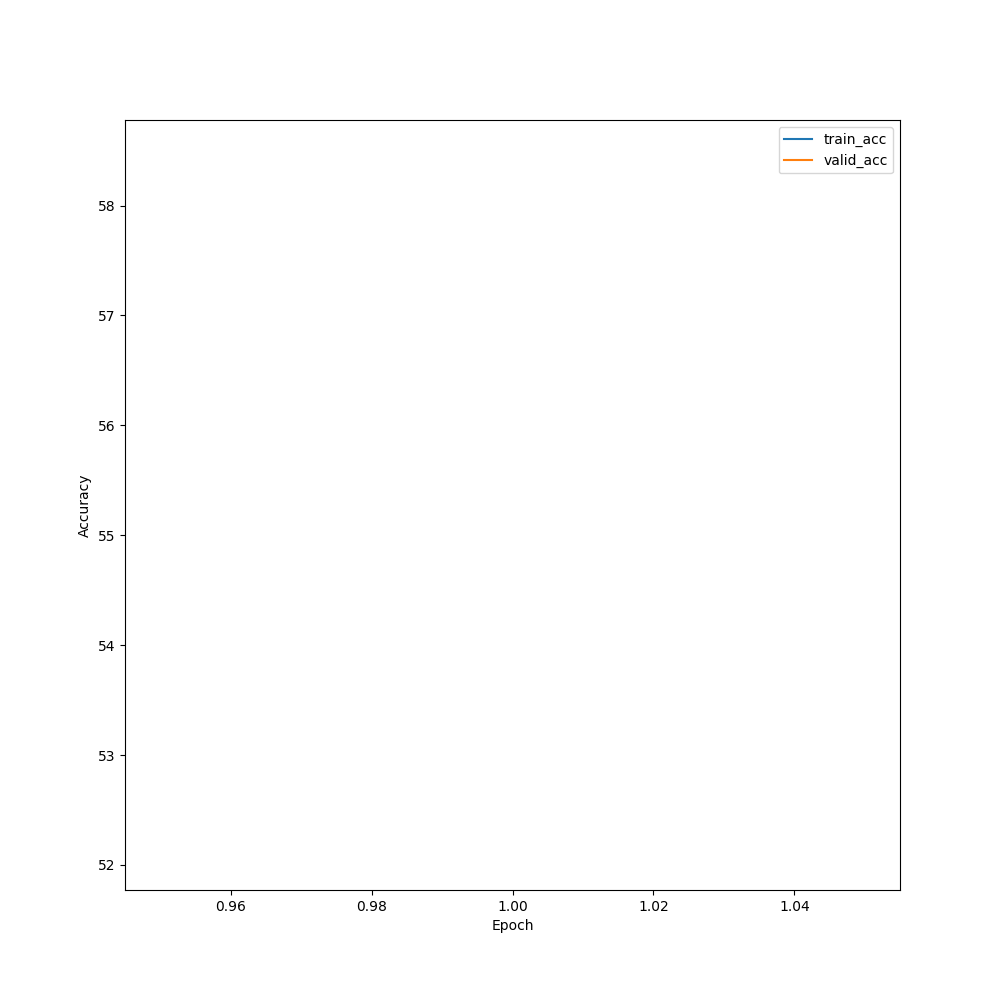
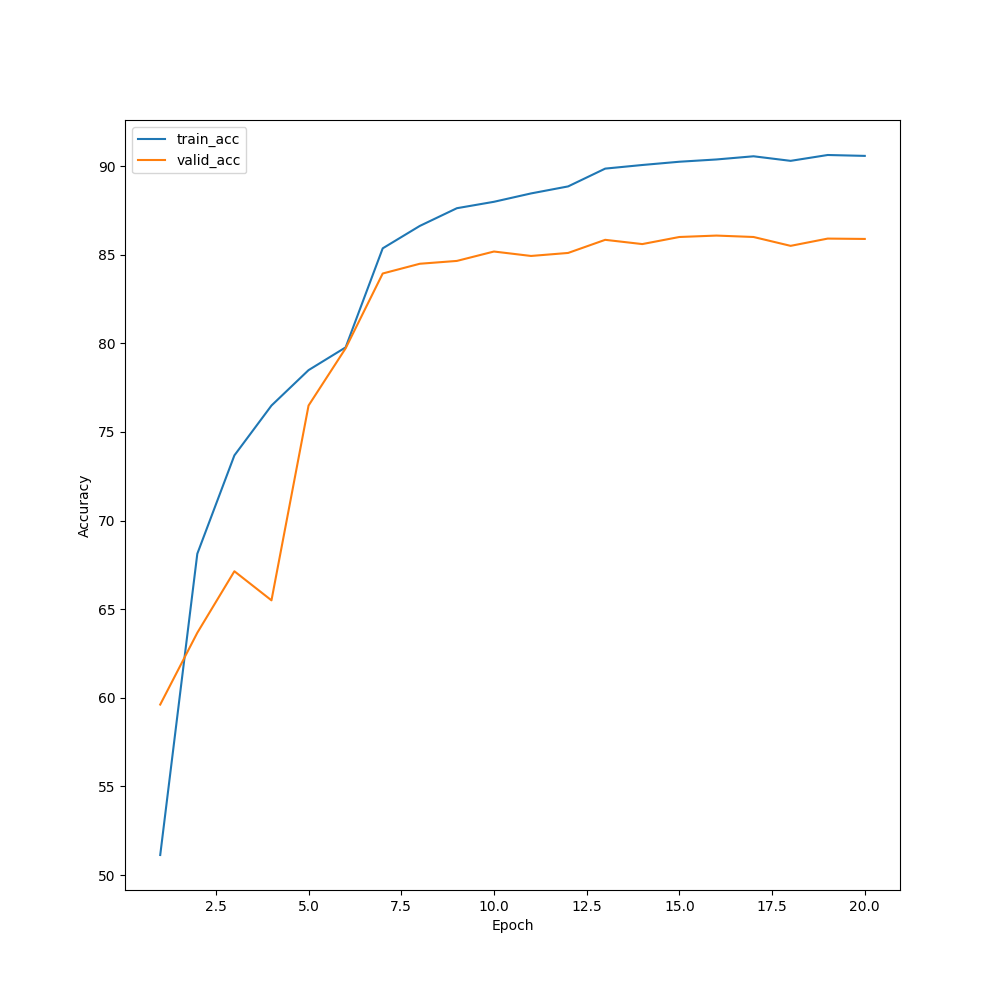
resnet network 93.02 test accuracy

diff --git a/agents/cifar10_agent.py b/agents/cifar10_agent.py
@@ -11,8 +11,8 @@ import torch.nn.functional as F
 from tqdm import tqdm
 
 from agents.base import BaseAgent
-from networks.cifar10_atrous_net import Cifar10AtrousNet as Net
-# from networks.resnet_net import ResNet18 as Net
+# from networks.cifar10_atrous_net import Cifar10AtrousNet as Net
+from networks.resnet_net import ResNet18 as Net
 from infdata.loader.cifar10_dl import DataLoader as dl
 from utils.misc import *
 
@@ -89,7 +89,7 @@ class Cifar10Agent(BaseAgent):
             self.device = torch.device('cuda')
             torch.cuda.set_device(self.config['gpu_device'])
             self.model = self.model.to(self.device)
-            self.loss = self.model.to(self.device)
+            self.loss = self.loss.to(self.device)
             
             self.logger.info("Program will RUN on ****GPU-CUDA****\n")
             print_cuda_statistics()
@@ -348,9 +348,10 @@ class Cifar10Agent(BaseAgent):
         for i in range(1, n+1):
             plt.subplot(5,5,i)
             plt.axis('off')
-            plt.imshow(images[i-1]["img"].cpu().numpy()[0], cmap='gray_r')
-            plt.title("Predicted : {} \nActual : {}".format(self.id2classes[images[i-1]["pred"][0].cpu().numpy()], 
-                                                self.id2classes[images[i-1]["target"].cpu().numpy()]))
+            plt.imshow(images[i-1]["img"].cpu().numpy()[0])
+            plt.title("Predicted : {} \nActual : {}".format(self.id2classes[int(images[i-1]["pred"].cpu().numpy()[0])], 
+                                                self.id2classes[int(images[i-1]["target"].cpu().numpy())]
+                                            ))
 
         plt.tight_layout()
         fig.savefig(os.path.join(self.config["stats_dir"], 'misclassified_imgs.png'))

diff --git a/agents/mnist_agent.py b/agents/mnist_agent.py
@@ -74,9 +74,6 @@ class MNISTAgent(BaseAgent):
         # save checkpoint
         self.save_checkpoint = self.config['save_checkpoint']
 
-        # set cuda flag
-        self.use_cuda = self.use_cuda
-
         if not self.use_cuda and torch.cuda.is_available():
             self.logger.info('WARNING : You have CUDA device, you should probably enable CUDA.')
 
@@ -87,7 +84,7 @@ class MNISTAgent(BaseAgent):
             self.device = torch.device('cuda')
             torch.cuda.set_device(self.config['gpu_device'])
             self.model = self.model.to(self.device)
-            self.loss = self.model.to(self.device)
+            # self.loss = self.loss.to(self.device)
             
             self.logger.info("Program will RUN on ****GPU-CUDA****\n")
             print_cuda_statistics()

diff --git a/infdata/transformation/cifar10_tf.py b/infdata/transformation/cifar10_tf.py
@@ -3,10 +3,11 @@ from torchvision import transforms
 class Transforms(object):
     def __init__(self):
         self.train_transforms = transforms.Compose([
-            transforms.RandomHorizontalFlip(),
-            #transforms.RandomRotation(15),
-            transforms.ToTensor(),
-            transforms.Normalize((0.4914, 0.4822, 0.4465), (0.2023, 0.1994, 0.2010))
+            transforms.RandomCrop(32, padding=4),
+		    transforms.RandomHorizontalFlip(),
+		    transforms.ToTensor(),
+            transforms.Normalize((0.4914, 0.4822, 0.4465), (0.2023, 0.1994, 0.2010)),
+            transforms.RandomErasing(0.25)
         ])
 
         self.valid_transforms = transforms.Compose([
